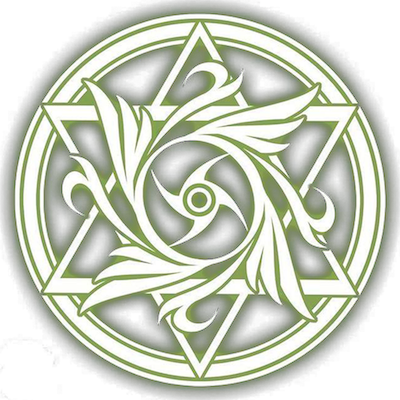
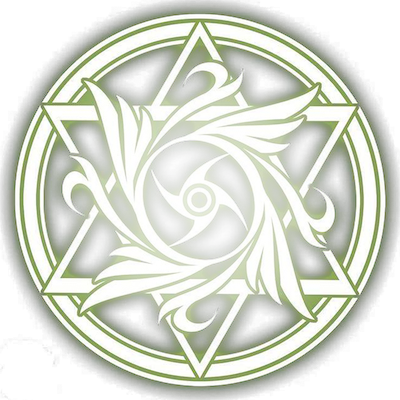
make the indicator partial transparent

Changed region(s): [[0.15, 0.12, 0.84, 0.87], [0.21, 0.24, 0.24, 0.27]]

diff --git a/NinjaJump/Scenes/NJMultiplayerLayeredCharacterScene.m b/NinjaJump/Scenes/NJMultiplayerLayeredCharacterScene.m
@@ -450,7 +450,7 @@
                 }
                 SKSpriteNode *itemIndicator = [SKSpriteNode spriteNodeWithImageNamed:fileName];
                 itemIndicator.alpha = kIndicatorAlpha;
-                [self addNode:itemIndicator atWorldLayer:NJWorldLayerCharacter];
+                [self addNode:itemIndicator atWorldLayer:NJWorldLayerGround];
                 player.indicatorNode = itemIndicator;
                 player.itemIndicatorAdded = YES;
             }
